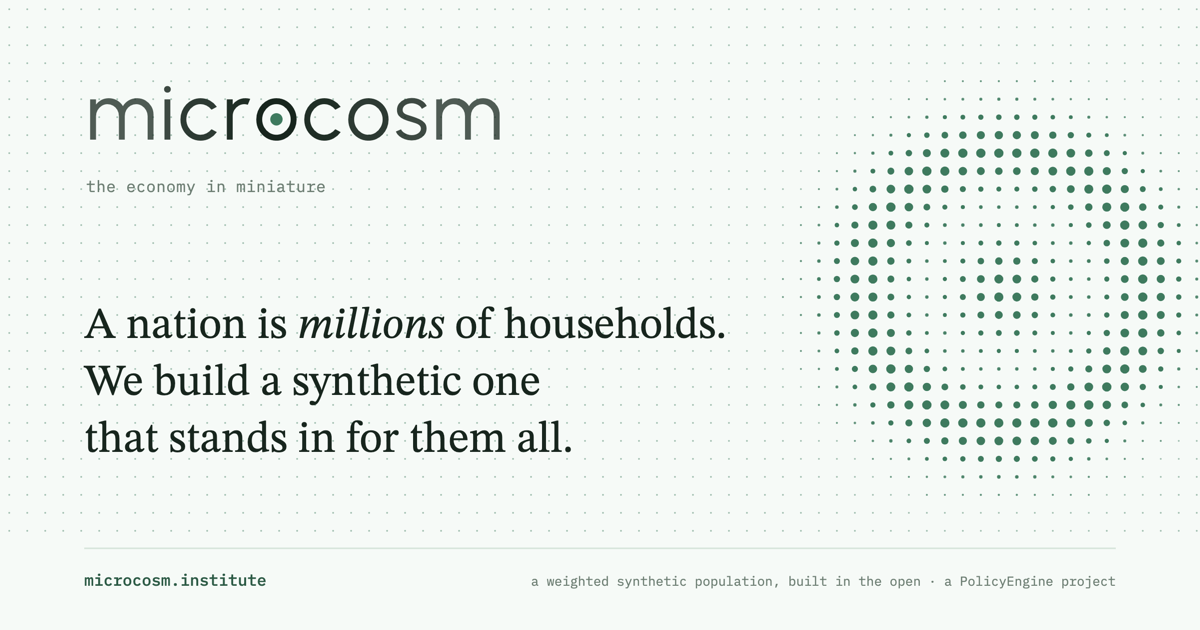
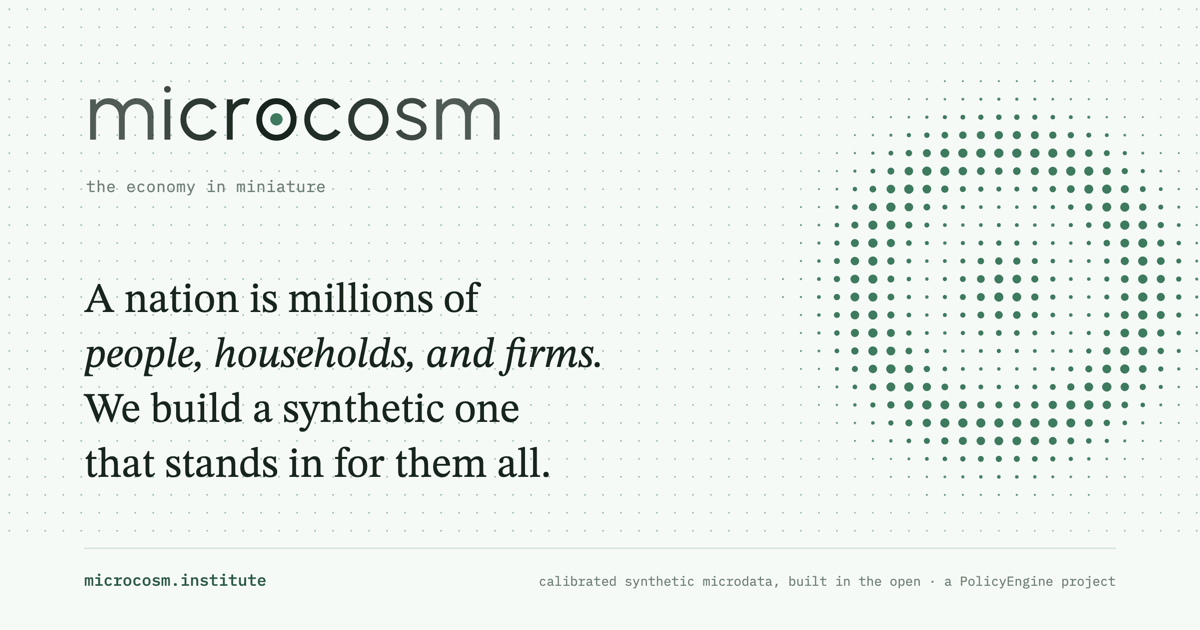
Broaden the card's scope line: people, households, and firms
"A nation is millions of households" was populace-era framing — the
rename exists because the miniature is not only households. The hero
now carries the identity's scope triple with the em on its own line,
the fine print says "calibrated synthetic microdata" (no unit-type
claim), and og:description / og:image:alt track the new wording.

Changed region(s): [[0.0617, 0.4524, 0.6167, 0.754], [0.4317, 0.9048, 0.6475, 0.9349]]

diff --git a/index.html b/index.html
@@ -6,16 +6,16 @@
 <title>microcosm — the economy in miniature</title>
 <meta name="description" content="microcosm is an open-source stack for building weighted synthetic populations from survey and administrative data. A sampling frame as a first-class datatype, with operators for building its support and calibrating its weights." />
 <meta property="og:title" content="microcosm" />
-<meta property="og:description" content="A weighted synthetic population, built in the open." />
+<meta property="og:description" content="Calibrated synthetic microdata — people, households, and firms, built in the open." />
 <meta property="og:type" content="website" />
 <meta property="og:url" content="https://microcosm.institute/" />
 <meta property="og:image" content="https://microcosm.institute/assets/og-image.png" />
 <meta property="og:image:width" content="1200" />
 <meta property="og:image:height" content="630" />
-<meta property="og:image:alt" content="microcosm — a nation is millions of households. We build a synthetic one that stands in for them all." />
+<meta property="og:image:alt" content="microcosm — a nation is millions of people, households, and firms. We build a synthetic one that stands in for them all." />
 <meta name="twitter:card" content="summary_large_image" />
 <meta name="twitter:title" content="microcosm" />
-<meta name="twitter:description" content="A weighted synthetic population, built in the open." />
+<meta name="twitter:description" content="Calibrated synthetic microdata — people, households, and firms, built in the open." />
 <meta name="twitter:image" content="https://microcosm.institute/assets/og-image.png" />
 <link rel="icon" type="image/svg+xml" href="/assets/policyengine-mark.svg" />
 <meta name="theme-color" content="#FFFFFF" /><!-- --background -->
